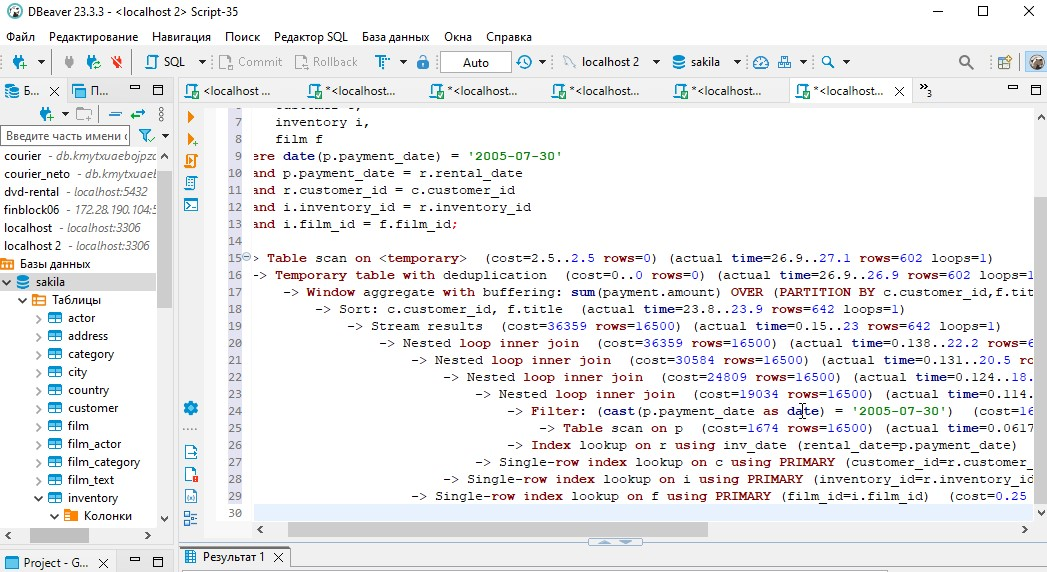
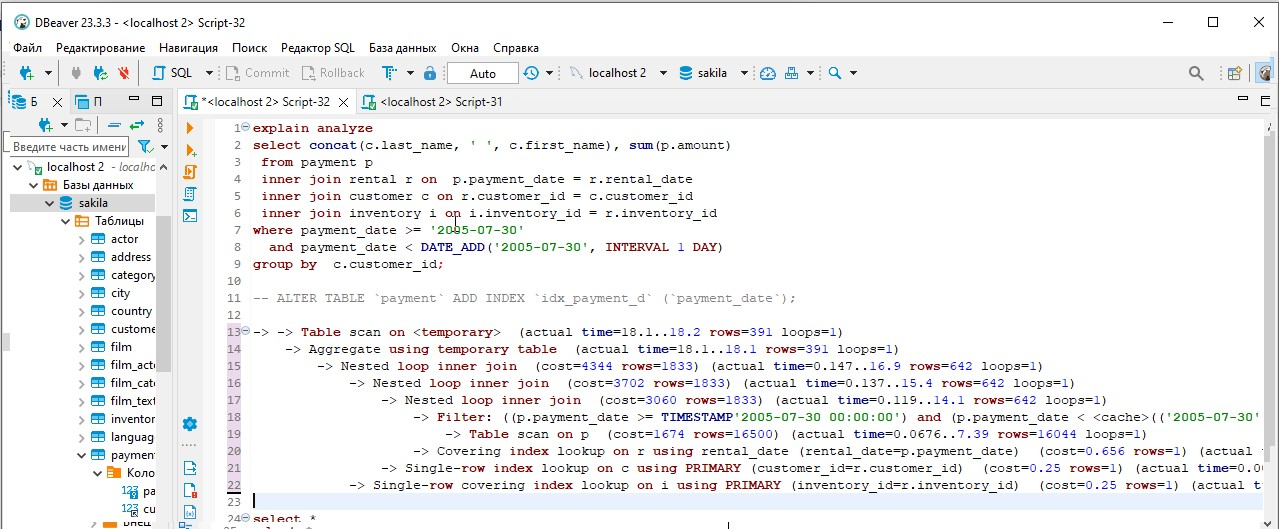
New commit

Changed region(s): [[0.0, 0.0, 1.0, 1.0]]

diff --git a/README.md b/README.md
@@ -25,26 +25,32 @@
 Полагаю, что стоимость операции обусловлена соединением таблицы `film` с соединением из таблиц `payment p, rental r, customer c, inventory i`, поскольку не указано, по какому столбцу таблицы `film` следует ее соединять с другими таблицами, получили декартово произведение.
 
 ## оптимизируйте запрос: внесите корректировки по использованию операторов, при необходимости добавьте индексы.
+Поскольку в оригинальном запросе таблица `film` соединялась с другими без условия, получалось декартово произведение, однако, фактически смысловой нагрузки у использования таблицы `film` нет.
+Поэтому использование таблицы `film` было исключено из запроса.
+Кроме того, соединение таблиц через запятую было заменено на `inner join`.
+Также был удален оператор `distinct`: вместо него применен оператор `group by`.
+Также изменено условие на дату.
 Запрос был преобразован следующим образом:
-`select distinct concat(c.last_name, ' ', c.first_name), `
-     ` sum(p.amount) over (partition by c.customer_id, f.title)`
- ` from payment p,` 
-     `rental r,`   
-       `customer c,` 
-       `inventory i, `
-       `film f `
-  `where date(p.payment_date) = '2005-07-30'` 
+`select concat(c.last_name, ' ', c.first_name), sum(p.amount) `
+`from payment p` 
+`inner join rental r on  p.payment_date = r.rental_date`   
+`inner join customer c on r.customer_id = c.customer_id` 
+`inner join inventory i on i.inventory_id = r.inventory_id`
+`where date(p.payment_date) = '2005-07-30'` 
     `and p.payment_date = r.rental_date `
-    `and r.customer_id = c.customer_id `
-    `and i.inventory_id = r.inventory_id`
-   ` and i.film_id = f.film_id;`
+;`
 
 Стоимость запроса без дополнительных индексов:
 ![Explain analize 2](/img/costs_without_ind.jpg)
 
+Добавлен индекс на столбец `payment_date` таблицы `payment`:
+`ALTER TABLE 'payment' ADD INDEX 'idx_payment_d' ('payment_date');`
+
+![Explain analize 4](/img/without_distinct.jpg)
+
 Стоимость запроса уменьшилась при добавлении доп.индексов:
 `CREATE INDEX rci ON rental (rental_date, customer_id, inventory_id );`
 `CREATE INDEX lfc ON customer (last_name, first_name, customer_id ); `
-`CREATE INDEX fti ON film (film_id, title ); `
 `CREATE INDEX inv ON inventory (inventory_id, film_id ); `
 ![Explain analize 3](/img/explain_analize1.jpg)
+
